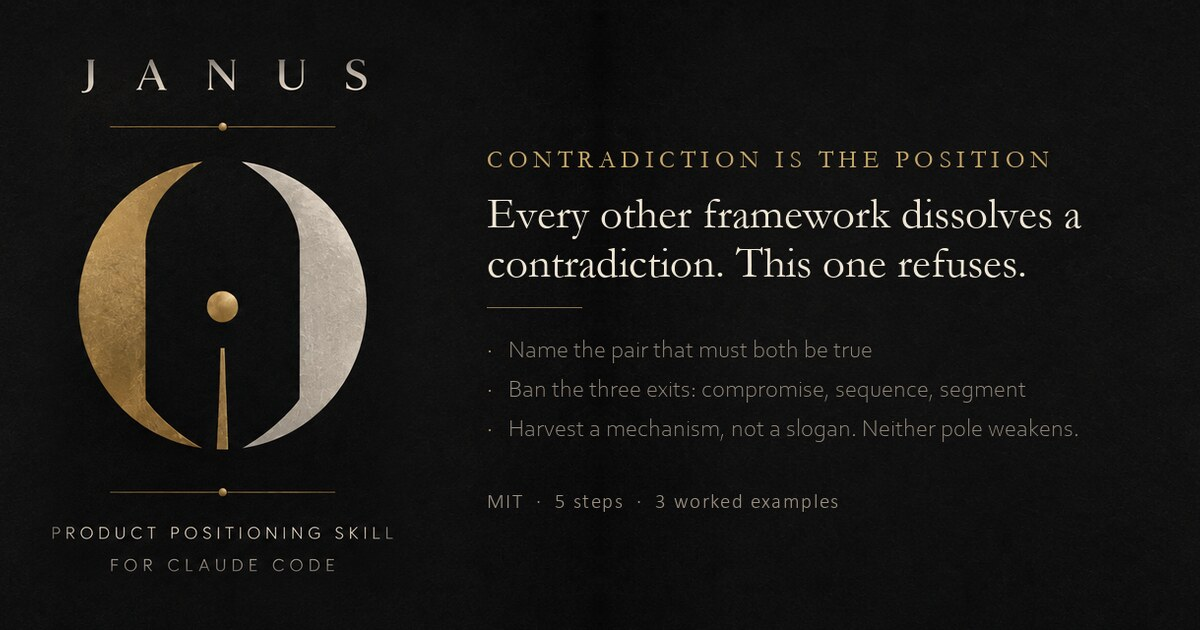
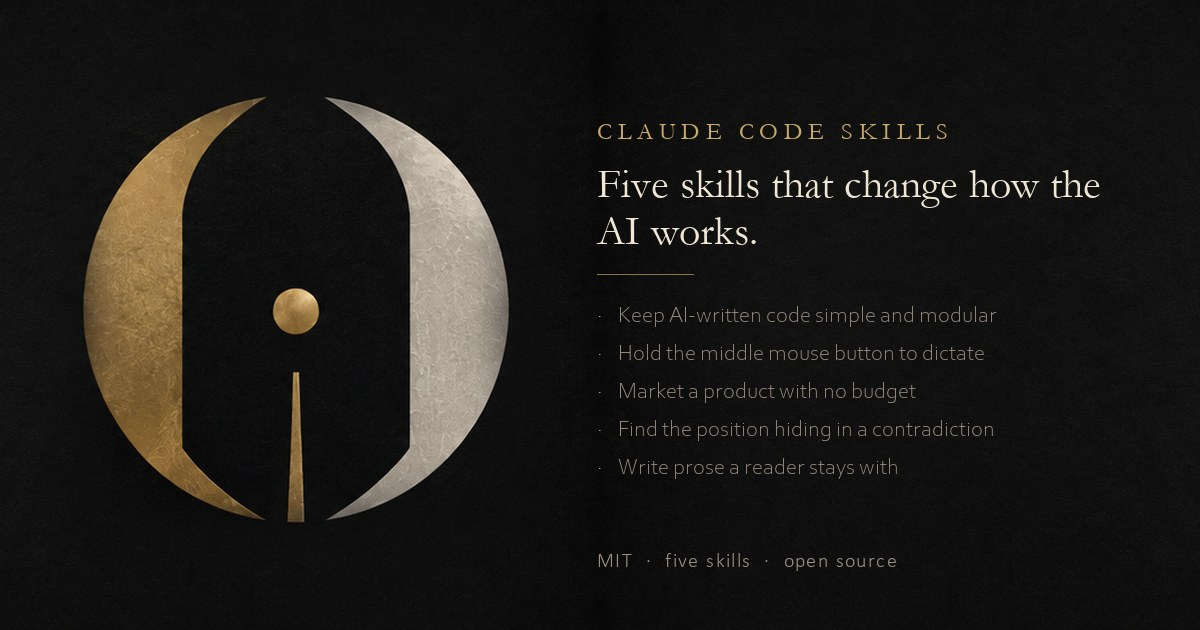
The skills card stops claiming the page is about Janus
Resyncing og-skills.jpg from the rebuilt Janus card made the page card worse,
not better: it now carried a JANUS wordmark, "product positioning skill", and
Janus-specific bullets on a page listing five skills.

The card is now the gold-and-silver circle alone, cropped free of the wordmark,
the subtitle and both divider rules, beside copy naming all five skills. The
circle was already this page's visual, so nothing new was invented.

Measuring that crop took three passes. A whole-image trim reports content to
y=745, but the circle ends at 685 and 736..746 is the divider's centre dot, so
the feathered bleed dragged a stray rule into frame twice. design.md 7.1d now
records the row-scan method and every box in that artwork.

7.1d also corrects 7.1c: adding a fifth skill cost the index no ROW, which was
the point, but it did cost nine strings.

diff --git a/skills.html b/skills.html
@@ -13,7 +13,7 @@
 <meta property="og:image" content="https://ryan-heltemes.com/assets/og/og-skills.jpg">
 <meta property="og:image:width" content="1200">
 <meta property="og:image:height" content="630">
-<meta property="og:image:alt" content="The Janus mark, a circle split into a gold crescent and a silver crescent with a gap held open between them, beside the line: every other framework dissolves a contradiction, this one refuses.">
+<meta property="og:image:alt" content="A circle split into a gold crescent and a silver crescent with a gap held open between them, beside the line: five skills that change how the AI works.">
 <meta property="og:site_name" content="Ryan Heltemes">
 <meta name="twitter:card" content="summary_large_image">
 <meta name="twitter:title" content="Claude Code skills">
